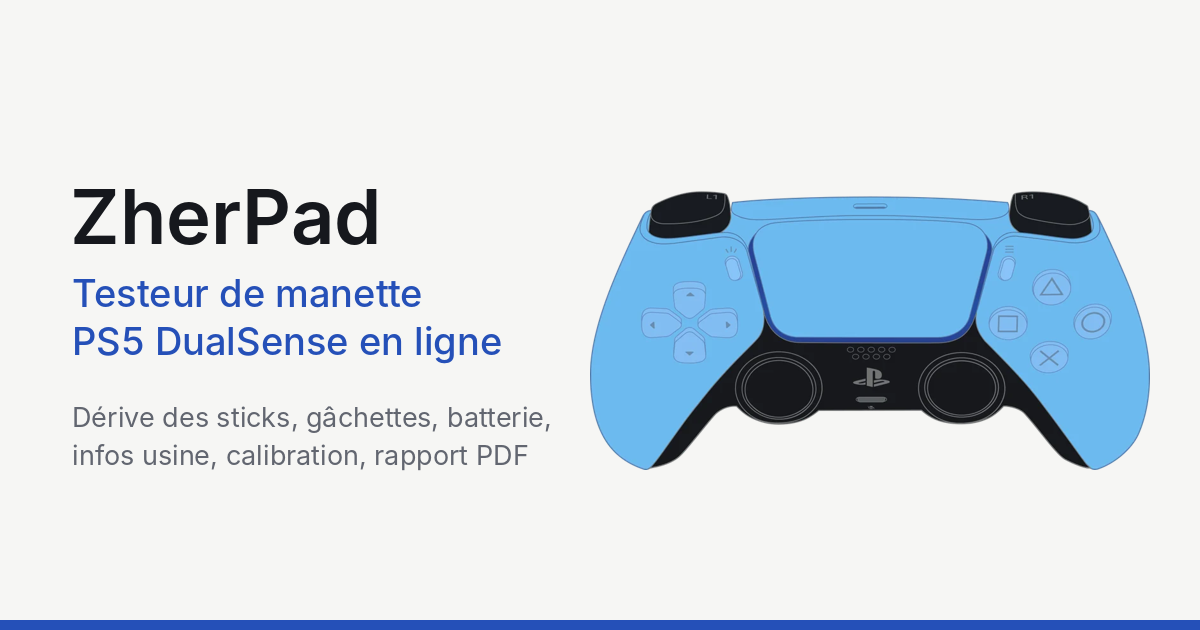
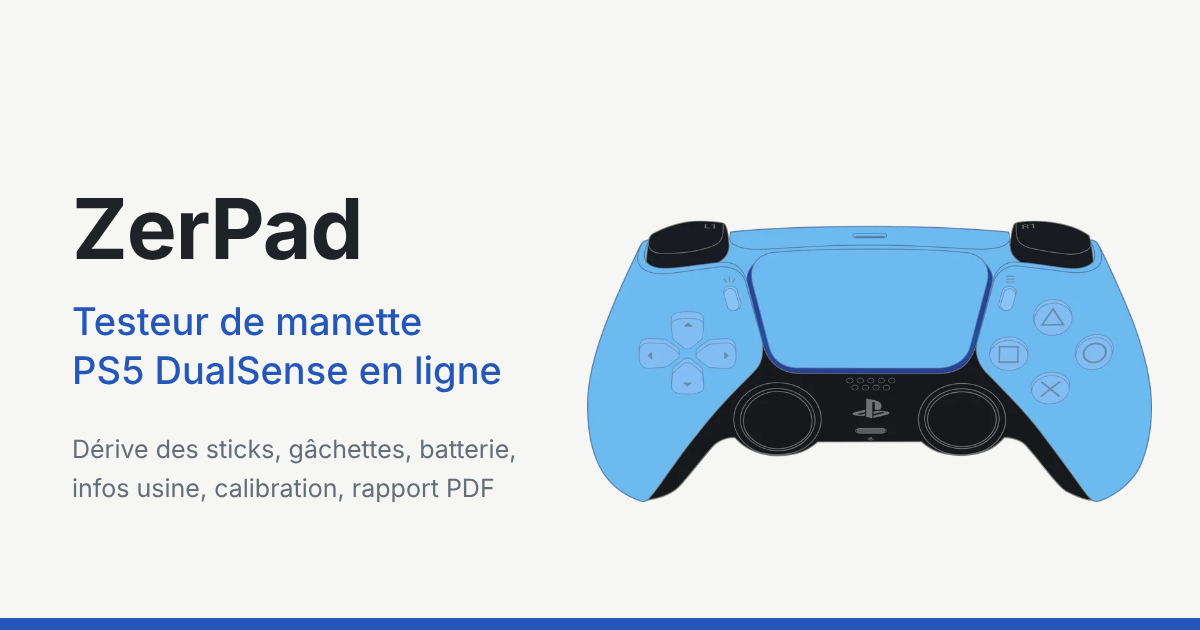
Rename the project to ZerPad

Changed region(s): [[0.0617, 0.3016, 0.9867, 0.8143], [0.0, 0.9651, 1.0, 0.9952]]

diff --git a/i18n-en.js b/i18n-en.js
@@ -204,7 +204,7 @@ window.I18N_EN = {
  "<h2>Identité</h2><table>": "<h2>Identity</h2><table>",
  "<h2>Historique d'usage (enregistré par la manette)</h2><table>": "<h2>Usage history (recorded by the controller)</h2><table>",
  "<h2>Résultats</h2><table><tr><th>Test</th><th>Résultat</th><th>Détail</th></tr>": "<h2>Results</h2><table><tr><th>Test</th><th>Result</th><th>Detail</th></tr>",
- "</table><p class=\"small\">Généré par ZherPad v": "</table><p class=\"small\">Generated by ZherPad v",
+ "</table><p class=\"small\">Généré par ZerPad v": "</table><p class=\"small\">Generated by ZerPad v",
  "Communication & identité": "Communication & identity",
  "Authenticité & infos usine": "Authenticity & factory info",
  "Lit le numéro de série, la couleur, la carte mère et vérifie les signes de contrefaçon (firmware daté du futur, absence de réponse aux commandes Sony). Plus fiable en USB.": "Reads the serial number, color and board, and checks for counterfeit signs (firmware dated in the future, no answer to Sony commands). More reliable over USB.",
@@ -396,7 +396,7 @@ window.I18N_EN = {
  "Dernier rapport d'entrée": "Last input report",
  "Rapports de fonctionnalité (feature reports)": "Feature reports",
  "Journal": "Log",
- "ZherPad, outil libre. Aucune donnée n'est envoyée sur internet. Le firmware n'est jamais modifié.": "ZherPad, free tool. No data is sent over the internet. The firmware is never modified.",
+ "ZerPad, outil libre. Aucune donnée n'est envoyée sur internet. Le firmware n'est jamais modifié.": "ZerPad, free tool. No data is sent over the internet. The firmware is never modified.",
  "Code source": "Source code",
  "ex. Manette 12, client Dupont": "e.g. Controller 12, customer Smith",
  "état visuel, remarques…": "visual condition, remarks…",
@@ -435,7 +435,7 @@ window.I18N_EN = {
  ". Attention : numéros de série différents.": ". Warning: different serial numbers.",
  "mieux": "better",
  "moins bien": "worse",
- "ce fichier n'est pas un rapport ZherPad": "this file is not a ZherPad report",
+ "ce fichier n'est pas un rapport ZerPad": "this file is not a ZerPad report",
  "Rapport illisible : ": "Unreadable report: ",
  "Vérifie que la manette répond : fréquence et perte des rapports, firmware, adresse MAC, calibration. Exige plus de 100 rapports/s et moins de 5 % de pertes.": "Checks that the controller answers: report rate and loss, firmware, MAC address, calibration. Requires over 100 reports/s and under 5 % loss.",
  "pertes non mesurées": "loss not measured",
@@ -467,10 +467,10 @@ window.I18N_EN = {
  "Résultats des tests": "Test results",
  "Test": "Test",
  "Mesure": "Measurement",
- "Mesures automatiques ZherPad v": "Automatic measurements by ZherPad v",
- "Seuils et sources : github.com/anzher44/zherpad": "Thresholds and sources: github.com/anzher44/zherpad",
+ "Mesures automatiques ZerPad v": "Automatic measurements by ZerPad v",
+ "Seuils et sources : github.com/anzher44/zerpad": "Thresholds and sources: github.com/anzher44/zerpad",
  "Portée du contrôle": "Scope of this inspection",
- "Ce rapport donne une image de l'état de la manette au moment du contrôle. Il repose sur des mesures automatiques (sticks, gâchettes, boutons, pavé tactile, capteurs de mouvement, batterie, compteurs enregistrés par la manette) et sur la confirmation de l'opérateur pour les vibrations, les gâchettes adaptatives et l'éclairage. Il fournit une information minimale sur le bon fonctionnement constaté ce jour-là et ne remplace pas une expertise matérielle complète : il ne permet pas d'évaluer l'usure future, l'état interne des composants ni l'autonomie réelle de la batterie. Les seuils utilisés et leurs sources sont publiés sur github.com/anzher44/zherpad.": "This report gives a picture of the controller's condition at the time of the inspection. It is based on automatic measurements (sticks, triggers, buttons, touchpad, motion sensors, battery, counters recorded by the controller) and on the operator's confirmation for rumble, adaptive triggers and lighting. It provides minimal information on the correct operation observed that day and does not replace a full hardware assessment: it cannot assess future wear, the internal condition of the components or the actual battery life. The thresholds used and their sources are published at github.com/anzher44/zherpad.",
+ "Ce rapport donne une image de l'état de la manette au moment du contrôle. Il repose sur des mesures automatiques (sticks, gâchettes, boutons, pavé tactile, capteurs de mouvement, batterie, compteurs enregistrés par la manette) et sur la confirmation de l'opérateur pour les vibrations, les gâchettes adaptatives et l'éclairage. Il fournit une information minimale sur le bon fonctionnement constaté ce jour-là et ne remplace pas une expertise matérielle complète : il ne permet pas d'évaluer l'usure future, l'état interne des composants ni l'autonomie réelle de la batterie. Les seuils utilisés et leurs sources sont publiés sur github.com/anzher44/zerpad.": "This report gives a picture of the controller's condition at the time of the inspection. It is based on automatic measurements (sticks, triggers, buttons, touchpad, motion sensors, battery, counters recorded by the controller) and on the operator's confirmation for rumble, adaptive triggers and lighting. It provides minimal information on the correct operation observed that day and does not replace a full hardware assessment: it cannot assess future wear, the internal condition of the components or the actual battery life. The thresholds used and their sources are published at github.com/anzher44/zerpad.",
  "Testeur de manette PS5 DualSense": "PS5 DualSense controller tester",
  "Vérifiez une manette DualSense ou DualSense Edge en quelques minutes, directement dans le navigateur : dérive des sticks, gâchettes, boutons, batterie, capteurs, infos usine et historique d'usage, avec un rapport PDF à la fin.": "Check a DualSense or DualSense Edge controller in a few minutes, right in your browser: stick drift, triggers, buttons, battery, sensors, factory info and usage history, with a PDF report at the end.",
  "<b>Branchez la manette</b> en USB, ou appairez-la en Bluetooth.": "<b>Plug in the controller</b> over USB, or pair it over Bluetooth.",

diff --git a/app.js b/app.js
@@ -1,4 +1,4 @@
-// ZherPad: user interface, live views and validation tests.
+// ZerPad: user interface, live views and validation tests.
 (function () {
   'use strict';
   const VERSION = '2.3.0';
@@ -256,7 +256,7 @@
 
   function historyLoad() {
     try {
-      const h = JSON.parse(localStorage.getItem('zherpad.history') || localStorage.getItem('dsTester.history') || '[]');
+      const h = JSON.parse(localStorage.getItem('zerpad.history') || localStorage.getItem('zherpad.history') || localStorage.getItem('dsTester.history') || '[]');
       return Array.isArray(h) ? h : [];
     } catch (e) { return []; }
   }
@@ -1074,7 +1074,7 @@
     const v = computeVerdict();
     const i = ds.info;
     return {
-      tool: 'ZherPad', toolVersion: VERSION,
+      tool: 'ZerPad', toolVersion: VERSION,
       date: new Date().toISOString(),
       unit: $('unitLabel').value, notes: $('unitNotes').value,
       verdict: v.label, verdictDetail: v.detail,
@@ -1100,7 +1100,7 @@
     try {
       const h = historyLoad();
       h.unshift({ date: r.date, unit: r.unit, mac: r.device.mac, serial: r.factory && r.factory.serial || null, verdict: r.verdict, model: r.device.model });
-      localStorage.setItem('zherpad.history', JSON.stringify(h.slice(0, 100)));
+      localStorage.setItem('zerpad.history', JSON.stringify(h.slice(0, 100)));
     } catch (e) { /* storage unavailable */ }
     renderHistory();
   }
@@ -1161,7 +1161,7 @@
     if (!file) return;
     try {
       const r = JSON.parse(await file.text());
-      if (!r || !Array.isArray(r.tests)) throw new Error(tr('ce fichier n\'est pas un rapport ZherPad'));
+      if (!r || !Array.isArray(r.tests)) throw new Error(tr('ce fichier n\'est pas un rapport ZerPad'));
       compareWith = r;
       renderCompare(r);
     } catch (err) { alert(tr('Rapport illisible : ') + err.message); }
@@ -1172,7 +1172,7 @@
     const blob = new Blob([JSON.stringify(r, null, 2)], { type: 'application/json' });
     const a = document.createElement('a');
     a.href = URL.createObjectURL(blob);
-    a.download = 'zherpad-' + ((r.factory && r.factory.serial) || r.device.mac || 'manette').replace(/[^A-Za-z0-9]/g, '') + '-' + r.date.slice(0, 19).replace(/[:T]/g, '-') + '.json';
+    a.download = 'zerpad-' + ((r.factory && r.factory.serial) || r.device.mac || 'manette').replace(/[^A-Za-z0-9]/g, '') + '-' + r.date.slice(0, 19).replace(/[:T]/g, '-') + '.json';
     a.click(); setTimeout(() => URL.revokeObjectURL(a.href), 1000);
   });
 
@@ -1182,7 +1182,7 @@
     'confirmation de l\'opérateur pour les vibrations, les gâchettes adaptatives et l\'éclairage. Il fournit une information ' +
     'minimale sur le bon fonctionnement constaté ce jour-là et ne remplace pas une expertise matérielle complète : il ne permet pas ' +
     'd\'évaluer l\'usure future, l\'état interne des composants ni l\'autonomie réelle de la batterie. Les seuils utilisés et leurs ' +
-    'sources sont publiés sur github.com/anzher44/zherpad.';
+    'sources sont publiés sur github.com/anzher44/zerpad.';
   $('btnPrint').addEventListener('click', () => {
     const r = buildReport(); saveHistory(r);
     const d = r.device, f = r.factory || {}, u = r.usage, v = computeVerdict();
@@ -1207,7 +1207,7 @@
       '</td><td class="st">' + tr(STATUS_TXT[t.status]) + '</td><td class="dt">' + esc(t.detail || '') + '</td></tr>').join('');
     const passed = r.tests.filter(t => t.status === 'pass').length;
     $('printReport').innerHTML =
-      '<header class="rp-head"><div class="rp-brand"><img src="icon.svg" alt=""><div><b>ZherPad</b><span>' + tr('Rapport de contrôle de manette') + '</span></div></div>' +
+      '<header class="rp-head"><div class="rp-brand"><img src="icon.svg" alt=""><div><b>ZerPad</b><span>' + tr('Rapport de contrôle de manette') + '</span></div></div>' +
       '<div class="rp-meta">' + tr('Rapport n°') + ' <b>' + rid + '</b><br>' + new Date(r.date).toLocaleString() + (r.unit ? '<br>' + esc(r.unit) : '') + '</div></header>' +
       '<section class="rp-top"><img class="rp-pad" id="rpPad" src="' + padImage(f.colorCode) + '" alt="">' +
       '<div class="rp-verdict ' + v.key + '"><span>' + tr('Résultat') + '</span><strong>' + esc(v.label) + '</strong><p>' + esc(v.detail) + '</p>' +
@@ -1217,7 +1217,7 @@
       '<h2>' + tr('Résultats des tests') + '</h2><table class="rp-tests"><thead><tr><th class="n">#</th><th>' + tr('Test') + '</th><th>' + tr('Résultat') + '</th><th>' + tr('Mesure') + '</th></tr></thead><tbody>' + tests + '</tbody></table>' +
       (r.notes ? '<p class="rp-notes"><b>' + tr('Notes') + ' :</b> ' + esc(r.notes) + '</p>' : '') +
       '<section class="rp-scope"><h2>' + tr('Portée du contrôle') + '</h2><p>' + tr(REPORT_SCOPE) + '</p></section>' +
-      '<p class="rp-foot">' + tr('Mesures automatiques ZherPad v') + VERSION + '. ' + tr('Seuils et sources : github.com/anzher44/zherpad') + '</p>';
+      '<p class="rp-foot">' + tr('Mesures automatiques ZerPad v') + VERSION + '. ' + tr('Seuils et sources : github.com/anzher44/zerpad') + '</p>';
     const img = $('rpPad');
     const go = () => window.print();
     if (img.complete) go(); else { img.onload = go; img.onerror = go; }

diff --git a/index.html b/index.html
@@ -3,23 +3,23 @@
 <head>
 <meta charset="utf-8">
 <meta name="viewport" content="width=device-width, initial-scale=1">
-<title>ZherPad | Testeur de manette PS5 DualSense en ligne</title>
+<title>ZerPad | Testeur de manette PS5 DualSense en ligne</title>
 <meta name="description" content="Testez une manette PS5 DualSense ou DualSense Edge dans le navigateur : dérive des sticks (drift), gâchettes adaptatives, boutons, batterie, gyroscope, infos usine, historique d'usage, calibration et rapport PDF. Gratuit, sans installation.">
 <meta name="theme-color" content="#f6f8fa">
-<link rel="canonical" href="https://anzher44.github.io/zherpad/">
+<link rel="canonical" href="https://anzher44.github.io/zerpad/">
 <meta property="og:type" content="website">
-<meta property="og:url" content="https://anzher44.github.io/zherpad/">
-<meta property="og:title" content="ZherPad | Testeur de manette PS5 DualSense en ligne">
+<meta property="og:url" content="https://anzher44.github.io/zerpad/">
+<meta property="og:title" content="ZerPad | Testeur de manette PS5 DualSense en ligne">
 <meta property="og:description" content="Dérive des sticks, gâchettes, batterie, capteurs, infos usine, historique d'usage, calibration et rapport PDF, directement dans le navigateur.">
-<meta property="og:image" content="https://anzher44.github.io/zherpad/og.png">
+<meta property="og:image" content="https://anzher44.github.io/zerpad/og.png">
 <meta property="og:locale" content="fr_FR">
 <meta name="twitter:card" content="summary_large_image">
 <script type="application/ld+json">
 {
   "@context": "https://schema.org",
   "@type": "SoftwareApplication",
-  "name": "ZherPad",
-  "url": "https://anzher44.github.io/zherpad/",
+  "name": "ZerPad",
+  "url": "https://anzher44.github.io/zerpad/",
   "description": "Browser tool to test, validate and recalibrate PS5 DualSense and DualSense Edge controllers: stick drift, adaptive triggers, buttons, battery, motion sensors, factory info, usage history and PDF report.",
   "applicationCategory": "UtilitiesApplication",
   "operatingSystem": "Windows, macOS, Linux, ChromeOS",
@@ -28,7 +28,7 @@
   "isAccessibleForFree": true,
   "offers": { "@type": "Offer", "price": "0", "priceCurrency": "EUR" },
   "license": "https://opensource.org/licenses/MIT",
-  "codeRepository": "https://github.com/anzher44/zherpad"
+  "codeRepository": "https://github.com/anzher44/zerpad"
 }
 </script>
 <link rel="manifest" href="manifest.webmanifest">
@@ -40,7 +40,7 @@
   <div class="brand">
     <img class="logo" src="icon.svg" alt="" width="40" height="40">
     <div>
-      <div class="name">ZherPad</div>
+      <div class="name">ZerPad</div>
       <p class="sub">Diagnostic et validation de manette DualSense</p>
     </div>
   </div>
@@ -347,8 +347,8 @@
 <section id="printReport" class="print-only"></section>
 
 <footer class="foot small">
-  ZherPad, outil libre. Aucune donnée n'est envoyée sur internet. Le firmware n'est jamais modifié.
-  <a href="https://github.com/anzher44/zherpad">Code source</a>
+  ZerPad, outil libre. Aucune donnée n'est envoyée sur internet. Le firmware n'est jamais modifié.
+  <a href="https://github.com/anzher44/zerpad">Code source</a>
 </footer>
 
 <script src="i18n-en.js"></script>

diff --git a/i18n.js b/i18n.js
@@ -1,7 +1,7 @@
 // Interface language. French strings are the keys; i18n-en.js maps them to English.
 (function () {
   'use strict';
-  const KEY = 'zherpad.lang', SUGGEST_KEY = 'zherpad.langSuggest';
+  const KEY = 'zerpad.lang', SUGGEST_KEY = 'zerpad.langSuggest';
   const store = {
     get: k => { try { return localStorage.getItem(k); } catch (e) { return null; } },
     set: (k, v) => { try { localStorage.setItem(k, v); } catch (e) { /* storage unavailable */ } },
@@ -16,7 +16,7 @@
     }
     return 'en';
   }
-  let lang = store.get(KEY);
+  let lang = store.get(KEY) || store.get('zherpad.lang');
   if (lang !== 'fr' && lang !== 'en') lang = browserLang();
 
   // tr('Texte {n}', { n: 3 })

diff --git a/sw.js b/sw.js
@@ -1,5 +1,5 @@
-// ZherPad service worker: caches the site so it works offline.
-const CACHE = 'zherpad-v8';
+// ZerPad service worker: caches the site so it works offline.
+const CACHE = 'zerpad-v9';
 const FILES = ['./', 'index.html', 'style.css', 'i18n-en.js', 'i18n.js', 'dualsense.js', 'app.js', 'calibration.js', 'icon.svg', 'manifest.webmanifest'];
 self.addEventListener('install', e => {
   e.waitUntil(caches.open(CACHE).then(c => c.addAll(FILES)).then(() => self.skipWaiting()));

diff --git a/THIRD_PARTY_NOTICES.md b/THIRD_PARTY_NOTICES.md
@@ -1,7 +1,7 @@
 # Third-party notices
 
-ZherPad builds on protocol knowledge published by the following MIT-licensed projects.
-ZherPad's code is written independently; the telemetry layout, the factory read commands and
+ZerPad builds on protocol knowledge published by the following MIT-licensed projects.
+ZerPad's code is written independently; the telemetry layout, the factory read commands and
 the stick calibration sequence are adapted from them.
 
 ## daidr/dualsense-tester - https://github.com/daidr/dualsense-tester
@@ -103,5 +103,5 @@ SOFTWARE.
 - mRbRaIn0/DualShock-Controller-Toolkit (MIT): cross-check of thresholds, return-to-center settle time,
   movement detection during the rest test, packet loss limit, rumble refresh on recent firmwares.
 - SekaPsyka/GamepadTester (MIT): button bounce (chatter) detection.
-- remteh-by/dualsense-tester (proprietary, idea only, no code read into ZherPad): before/after report comparison.
+- remteh-by/dualsense-tester (proprietary, idea only, no code read into ZerPad): before/after report comparison.
 - Linux driver `hid-playstation.c`: input/output report format, IMU calibration.

diff --git a/README.md b/README.md
@@ -1,8 +1,8 @@
-# ZherPad
+# ZerPad
 
 Free online PS5 controller tester: test, validate and recalibrate a DualSense or DualSense Edge in the browser. Checks stick drift, adaptive triggers, buttons, battery, gyroscope, factory info and usage history, and prints a one-page PDF report.
 
-Live version: https://anzher44.github.io/zherpad/
+Live version: https://anzher44.github.io/zerpad/
 
 It runs entirely in the browser through WebHID. Nothing is installed and nothing is sent over the network.
 The interface is available in French and English (button in the top bar, detected from the browser language by default).
